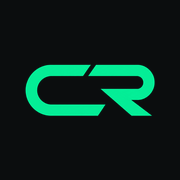
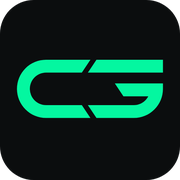
Новое лого CG и название CG Logistics на всём сайте
Claude-Session: https://claude.ai/code/session_01JfcrWHMeDgZXnvB7uMgGF9

diff --git a/src/content/ua.ts b/src/content/ua.ts
@@ -1,5 +1,5 @@
 // Українська версія. Структура і зміст зібрані за зразком master-trans.com.ua і parktrans.com.ua
-// (див. /mnt/project-files/competitors/), переписані своїми словами під CR Logistics.
+// (див. /mnt/project-files/competitors/), переписані своїми словами під CG Logistics.
 // Ставки «від» — орієнтир із сайтів конкурентів, Олександр поправить під себе.
 import type { LangContent } from './types'
 import { kyivWarsawUa, routePagesUa } from './routes.ua'
@@ -121,7 +121,7 @@ export const ua: LangContent = {
 
   home: {
     meta: {
-      title: 'Вантажоперевезення по Україні та за кордон — CR Logistics',
+      title: 'Вантажоперевезення по Україні та за кордон — CG Logistics',
       description:
         'Вантажні перевезення від 1 тонни: бус, фура, негабарит, автовоз, маніпулятор. Україна, Європа, доставка з Китаю. Ціни від 35 грн/км, розрахунок після заявки.',
     },
@@ -1491,13 +1491,13 @@ export const ua: LangContent = {
   contactsPage: {
     meta: {
       title: 'Контакти: телефон, Viber, Telegram, WhatsApp',
-      description: 'Телефон, Viber, Telegram, WhatsApp і пошта CR Logistics. Розрахуємо вантажоперевезення по Україні та за кордон: назвіть маршрут, вагу й обсяг.',
+      description: 'Телефон, Viber, Telegram, WhatsApp і пошта CG Logistics. Розрахуємо вантажоперевезення по Україні та за кордон: назвіть маршрут, вагу й обсяг.',
     },
     h1: 'Контакти',
     lead: 'Подзвоніть або напишіть у зручний месенджер. Для розрахунку назвіть маршрут, вагу й об’єм вантажу.',
     aboutTitle: 'Про компанію',
     about: [
-      "CR Logistics організовує вантажні перевезення по Україні та за кордон: автомобільні, морські та авіа. Підбираємо транспорт під вантаж: від буса до фури, трала, автовоза чи маніпулятора. Також беремо на себе митне оформлення в Україні та Європі.",
+      "CG Logistics організовує вантажні перевезення по Україні та за кордон: автомобільні, морські та авіа. Підбираємо транспорт під вантаж: від буса до фури, трала, автовоза чи маніпулятора. Також беремо на себе митне оформлення в Україні та Європі.",
       "Базуємося в Україні, Польщі та Словенії. Працюємо як з бізнесом, так і з приватними клієнтами.",
     ],
     hours: 'Заявки з сайту одразу приходять нам у Telegram',

diff --git a/src/content/ru.ts b/src/content/ru.ts
@@ -120,7 +120,7 @@ export const ru: LangContent = {
 
   home: {
     meta: {
-      title: 'Грузоперевозки по Украине и за границу — CR Logistics',
+      title: 'Грузоперевозки по Украине и за границу — CG Logistics',
       description:
         'Грузоперевозки от 1 тонны: бус, фура, негабарит, автовоз, манипулятор. Украина, Европа, доставка из Китая. Цены от 35 грн/км, расчёт после заявки.',
     },
@@ -1490,13 +1490,13 @@ export const ru: LangContent = {
   contactsPage: {
     meta: {
       title: 'Контакты: телефон, Viber, Telegram, WhatsApp',
-      description: 'Телефон, Viber, Telegram, WhatsApp и почта CR Logistics. Рассчитаем грузоперевозку по Украине и за границу: назовите маршрут, вес и объём.',
+      description: 'Телефон, Viber, Telegram, WhatsApp и почта CG Logistics. Рассчитаем грузоперевозку по Украине и за границу: назовите маршрут, вес и объём.',
     },
     h1: 'Контакты',
     lead: 'Позвоните или напишите в удобный мессенджер. Для расчёта назовите маршрут, вес и объём груза.',
     aboutTitle: 'О компании',
     about: [
-      "CR Logistics организует грузовые перевозки по Украине и за рубеж: автомобильные, морские и авиа. Подбираем транспорт под груз: от буса до фуры, трала, автовоза или манипулятора. Также берём на себя таможенное оформление в Украине и Европе.",
+      "CG Logistics организует грузовые перевозки по Украине и за рубеж: автомобильные, морские и авиа. Подбираем транспорт под груз: от буса до фуры, трала, автовоза или манипулятора. Также берём на себя таможенное оформление в Украине и Европе.",
       "Базируемся в Украине, Польше и Словении. Работаем как с бизнесом, так и с частными клиентами.",
     ],
     hours: 'Заявки с сайта сразу приходят нам в Telegram',

diff --git a/src/content/en.ts b/src/content/en.ts
@@ -120,7 +120,7 @@ export const en: LangContent = {
 
   home: {
     meta: {
-      title: 'Freight Transport Ukraine – Europe and within Ukraine | CR Logistics',
+      title: 'Freight Transport Ukraine – Europe and within Ukraine | CG Logistics',
       description:
         'Road freight from 1 tonne between Ukraine and Europe and across Ukraine: vans, full trucks, oversized loads, car transporters. Sea and air freight from China. Quote after your request.',
     },
@@ -1464,13 +1464,13 @@ export const en: LangContent = {
   contactsPage: {
     meta: {
       title: 'Contact Us: Phone, Viber, Telegram, WhatsApp',
-      description: 'Phone, Viber, Telegram, WhatsApp and email of CR Logistics. Kyiv, Ukraine, and Slovenia.',
+      description: 'Phone, Viber, Telegram, WhatsApp and email of CG Logistics. Kyiv, Ukraine, and Slovenia.',
     },
     h1: 'Contact us',
     lead: 'Call us or message us on your favourite messenger. For a quote, tell us the route, weight and volume of your cargo.',
     aboutTitle: 'About us',
     about: [
-      "CR Logistics arranges freight transport within Ukraine and abroad: by road, sea and air. We match the vehicle to the cargo: from a van to a full truck, low-bed trailer, car transporter or crane truck. We also handle customs clearance in Ukraine and Europe.",
+      "CG Logistics arranges freight transport within Ukraine and abroad: by road, sea and air. We match the vehicle to the cargo: from a van to a full truck, low-bed trailer, car transporter or crane truck. We also handle customs clearance in Ukraine and Europe.",
       "We are based in Ukraine, Poland and Slovenia. We work with both businesses and private clients.",
     ],
     hours: 'Requests from the website reach us instantly on Telegram',

diff --git a/src/content/sl.ts b/src/content/sl.ts
@@ -120,7 +120,7 @@ export const sl: LangContent = {
 
   home: {
     meta: {
-      title: 'Prevoz tovora Slovenija – Ukrajina, po Evropi in Ukrajini | CR Logistics',
+      title: 'Prevoz tovora Slovenija – Ukrajina, po Evropi in Ukrajini | CG Logistics',
       description:
         'Prevoz tovora od 1 tone med Slovenijo, Evropo in Ukrajino ter po vsej Ukrajini: kombi, tovornjak, izredni prevozi, avtotransporter. Uvoz iz Kitajske po morju in letalsko.',
     },
@@ -1464,13 +1464,13 @@ export const sl: LangContent = {
   contactsPage: {
     meta: {
       title: 'Kontakt: telefon, Viber, Telegram, WhatsApp',
-      description: 'Telefon, Viber, Telegram, WhatsApp in e-pošta CR Logistics. Kijev, Ukrajina, in Slovenija.',
+      description: 'Telefon, Viber, Telegram, WhatsApp in e-pošta CG Logistics. Kijev, Ukrajina, in Slovenija.',
     },
     h1: 'Kontakt',
     lead: 'Pokličite ali pišite v aplikaciji, ki vam ustreza. Za izračun povejte relacijo, težo in prostornino tovora.',
     aboutTitle: 'O podjetju',
     about: [
-      "CR Logistics organizira prevoz tovora po Ukrajini in v tujino: cestni, morski in letalski. Prevoz izberemo glede na tovor: od kombija do tovornjaka, nizko-podvoznika, avtotransporterja ali vozila z dvigalom. Uredimo tudi carinjenje v Ukrajini in Evropi.",
+      "CG Logistics organizira prevoz tovora po Ukrajini in v tujino: cestni, morski in letalski. Prevoz izberemo glede na tovor: od kombija do tovornjaka, nizko-podvoznika, avtotransporterja ali vozila z dvigalom. Uredimo tudi carinjenje v Ukrajini in Evropi.",
       "Imamo sedež v Ukrajini, na Poljskem in v Sloveniji. Delamo tako s podjetji kot s fizičnimi osebami.",
     ],
     hours: 'Povpraševanja s spletne strani prejmemo takoj v Telegram',

diff --git a/src/content/pl.ts b/src/content/pl.ts
@@ -120,7 +120,7 @@ export const pl: LangContent = {
 
   home: {
     meta: {
-      title: 'Transport do Ukrainy z Polski i Europy oraz po Ukrainie | CR Logistics',
+      title: 'Transport do Ukrainy z Polski i Europy oraz po Ukrainie | CG Logistics',
       description:
         'Transport towarów od 1 tony: Polska – Ukraina, Europa, cała Ukraina. Bus, TIR, ładunki ponadgabarytowe, autolawety. Import z Chin morzem i samolotem. Wycena po zapytaniu.',
     },
@@ -1464,13 +1464,13 @@ export const pl: LangContent = {
   contactsPage: {
     meta: {
       title: 'Kontakt: telefon, Viber, Telegram, WhatsApp',
-      description: 'Telefon, Viber, Telegram, WhatsApp i e-mail CR Logistics. Kijów, Ukraina, a także Słowenia.',
+      description: 'Telefon, Viber, Telegram, WhatsApp i e-mail CG Logistics. Kijów, Ukraina, a także Słowenia.',
     },
     h1: 'Kontakt',
     lead: 'Zadzwoń albo napisz na wygodnym komunikatorze. Do wyceny podaj trasę, wagę i objętość ładunku.',
     aboutTitle: 'O firmie',
     about: [
-      "CR Logistics organizuje transport ładunków po Ukrainie i za granicę: drogowy, morski i lotniczy. Dobieramy transport do ładunku: od busa po TIR, niskopodwozie, autolawetę czy HDS. Zajmujemy się też odprawą celną na Ukrainie i w Europie.",
+      "CG Logistics organizuje transport ładunków po Ukrainie i za granicę: drogowy, morski i lotniczy. Dobieramy transport do ładunku: od busa po TIR, niskopodwozie, autolawetę czy HDS. Zajmujemy się też odprawą celną na Ukrainie i w Europie.",
       "Działamy na Ukrainie, w Polsce i w Słowenii. Pracujemy zarówno z firmami, jak i z klientami prywatnymi.",
     ],
     hours: 'Zapytania ze strony trafiają do nas od razu na Telegram',

diff --git a/src/components/Layout.tsx b/src/components/Layout.tsx
@@ -29,9 +29,9 @@ export function routePages(c: LangContent) {
 
 function Logo({ lang }: { lang: Lang }) {
   return (
-    <a className="logo" href={url(lang)} aria-label="CR Logistics">
+    <a className="logo" href={url(lang)} aria-label="CG Logistics">
       <span className="logo-mark">
-        <img src={asset('brand/logo-cr.png')} width="300" height="125" alt="" />
+        <img src={asset('brand/logo-cg.svg')} width="851" height="341" alt="" />
       </span>
       <span className="logo-text">Logistics</span>
     </a>
@@ -689,7 +689,7 @@ export function Footer({ lang, c }: Ctx) {
       </div>
       <div className="wrap ftr-bottom">
         <p>
-          © {year} CR Logistics. {c.ui.rights}
+          © {year} CG Logistics. {c.ui.rights}
         </p>
         <p>{c.ui.footerNote}</p>
       </div>

diff --git a/src/styles.css b/src/styles.css
@@ -1,4 +1,4 @@
-/* CR Logistics: светлый, лёгкий интерфейс. Мятный — только акцент (кнопки, отметки). */
+/* CG Logistics: светлый, лёгкий интерфейс. Мятный — только акцент (кнопки, отметки). */
 :root {
   --ink: #0b0d0e;
   --ink-2: #1d2125;

diff --git a/src/site/config.ts b/src/site/config.ts
@@ -25,7 +25,7 @@ export const languages: LangInfo[] = [
 export const defaultLang: Lang = 'ua'
 
 export const brand = {
-  name: 'CR Logistics',
+  name: 'CG Logistics',
   city: 'Київ',
   secondLocation: 'Словенія',
 }
